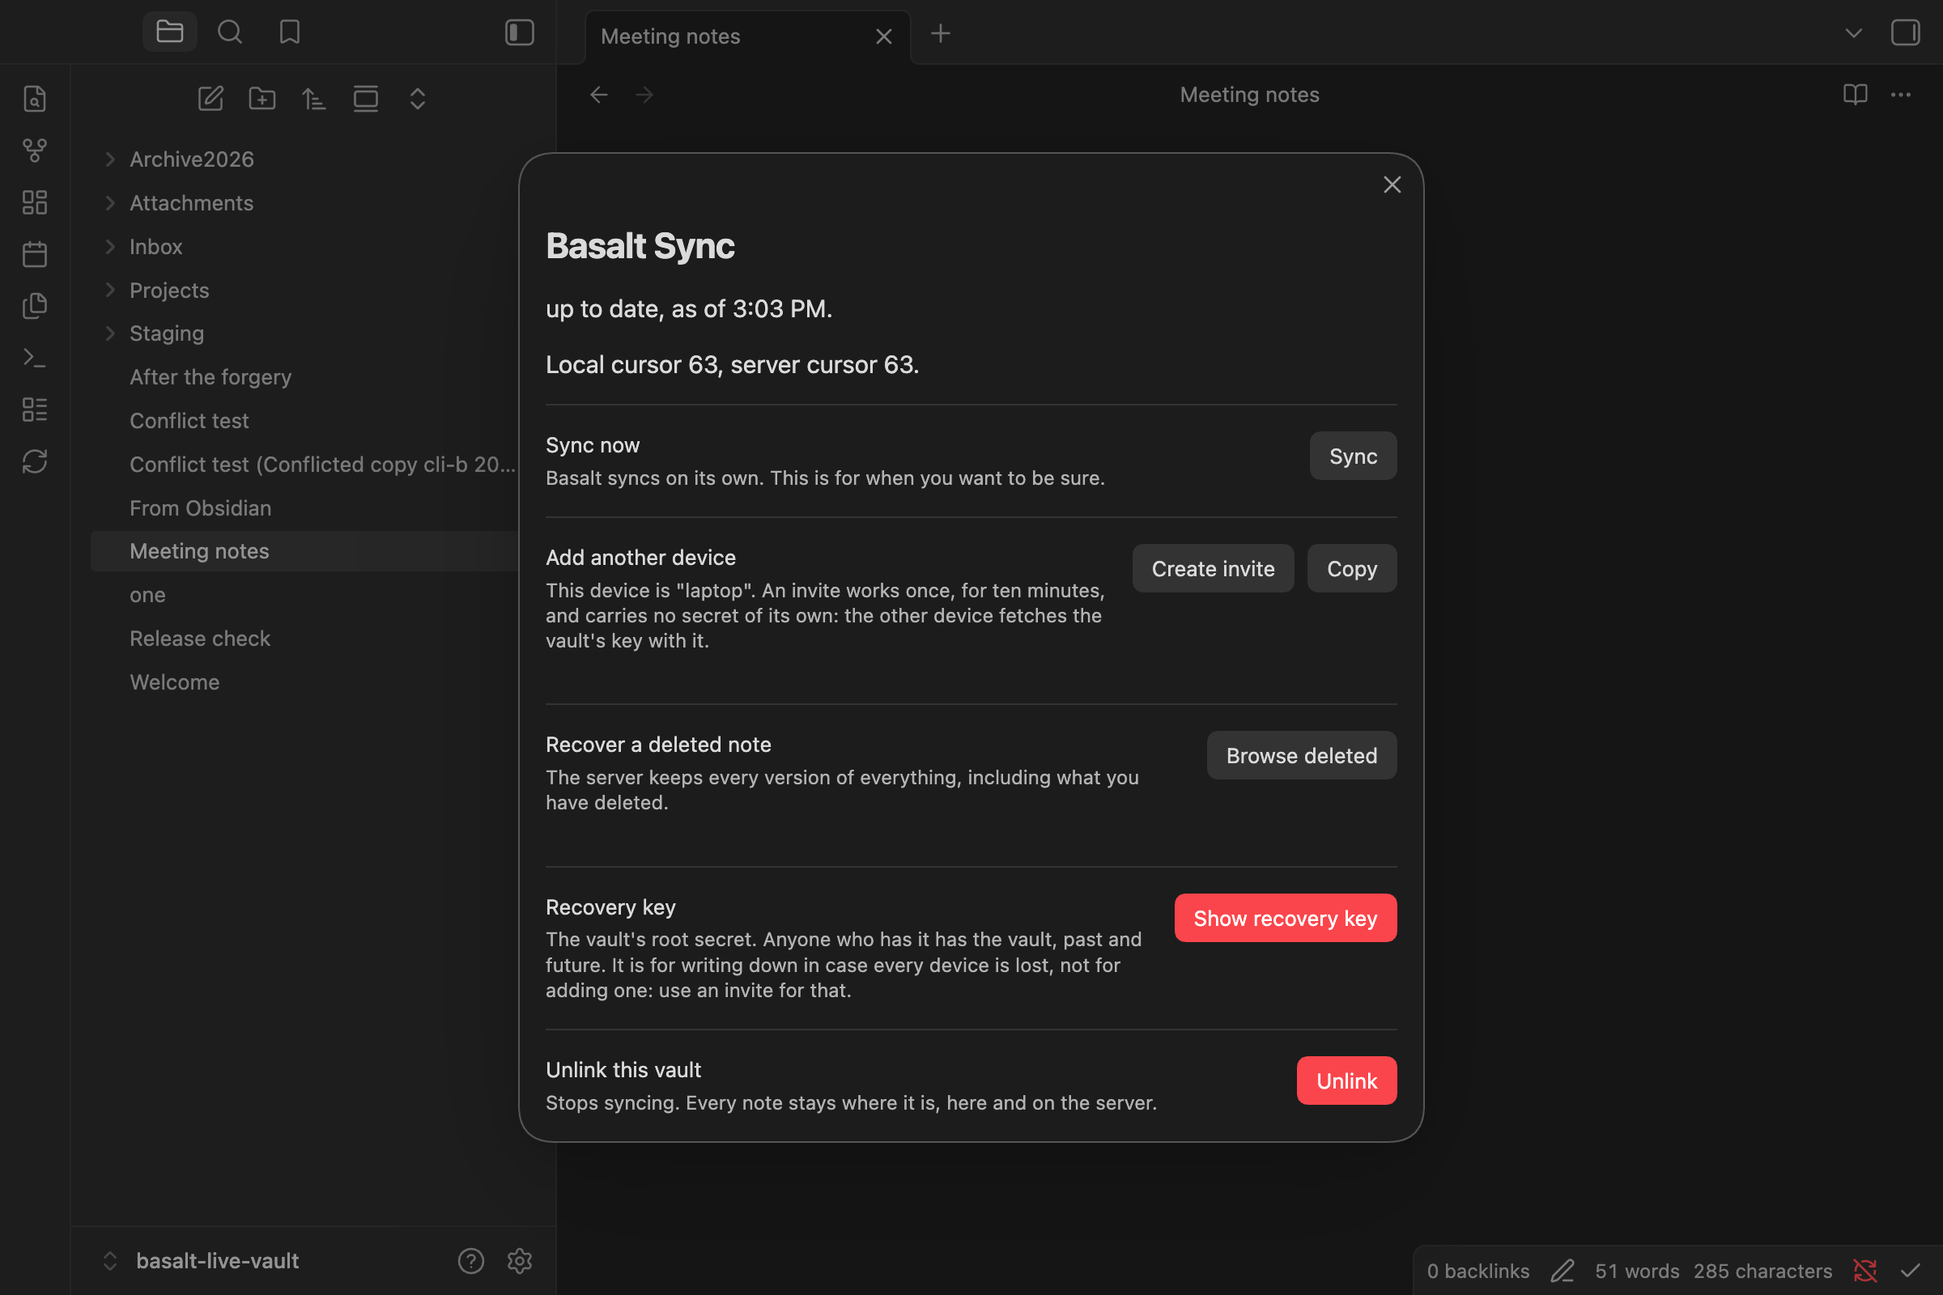
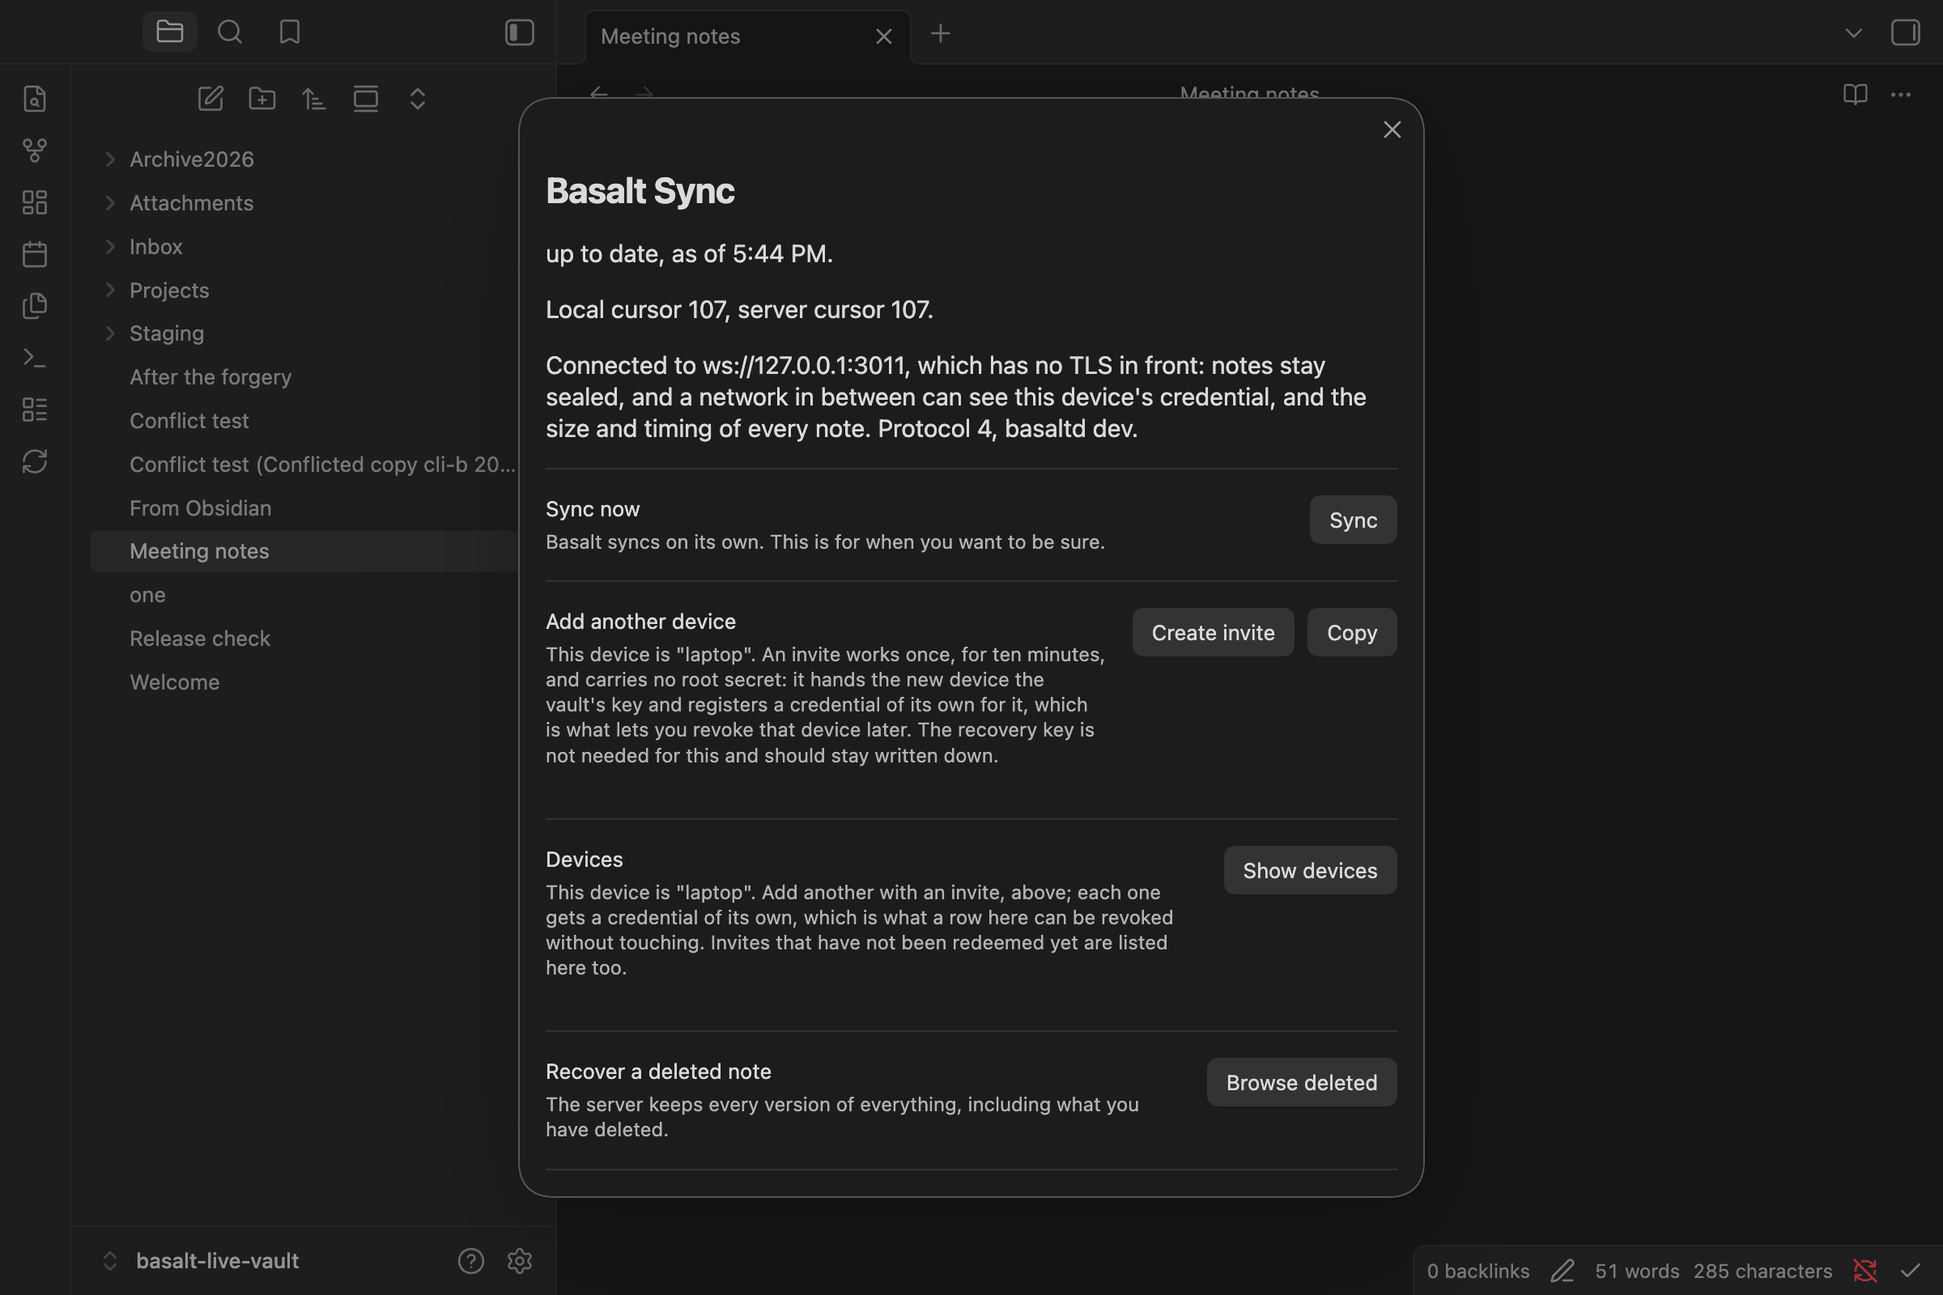
retire the planning files, now that what was in them is in the docs
todo.md, improvements.md and todo-new.md were working files. Everything in
them that outlives the work is now in a document that ships, which is where a
decision belongs if it is to be found by somebody who was not here.

  compared.md, measured and deliberately not done
    a CRDT for the text, and why convergence is not the property this needs
    naming a chunk by its plaintext, and the keyed version that fixes its leak
    a local map from plaintext to the name a chunk was uploaded under
    a SQLite index, answered by measurement
    resolving renames at scan time, and why a guess is worse than the state
    a server-side streaming import, and the numbers that do not justify it
    merging the four not-acted-on maps, and why only the output was merged

  design.md
    what a loopback bind does not prove, and why the token is the proof
    the settings surface that exists although the screen does not
    a canvas edge whose node the other device deleted
    the whole-file fallback on mobile, unmeasured on a real phone
    rule 11, and the restore that verifies and serves a vault with a hole

  protocol.md
    why busy stays one code

  README
    iOS, and the phone measurements nobody has taken

The prototype from the chunk-naming spike is on spike/hmac-chunk-names, pushed
rather than left on one disk under a session id.

One thing does not survive and is small enough to say here instead: two commits
[…]

diff --git a/todo.md b/todo.md
@@ -14,11 +14,12 @@ The tree moved during this review and is still moving: a pairing-flow
 refactor is in flight in the dirty tree (`convertToDevice` and
 `needsConversion` gone from core, `registerAsDevice` in their place, the
 plugin's runLoop/pair/pairFirst reworked around register-then-save, plus
-the continuing protocol-4 comment/docs pass). It is uncommitted, it is not
-this review's scope, and its suite is red while it moves, a later client
-run failed 190 with edits landing mid-run, and a rerun still fails 5 in
-`main.test.ts` with files changing underneath it. Nothing below judges it;
-re-review it once it commits and its own suite is green.
+the continuing protocol-4 comment/docs pass). That work has since
+committed (`dfa0d2b` and friends) and is reviewed in `todo-new.md`, which
+carries this file's open items forward with the new findings. The
+mid-review red suite was edits landing mid-run, not real breakage: the
+committed tree is green except the `format`/`typecheck` gate (B1 in
+`todo-new.md`).
 
 **Rule 9 applies to every item:** a fix without a test that failed first
 is not finished. Items marked `[needs-repro]` are suspected from reading
@@ -55,7 +56,12 @@ refused-but-confusing > operational footguns > leaks/hardening.
 
 ## In progress, uncommitted
 
-- [ ] **The protocol 4 docs pass.** `README.md`, the security SVGs and
+- [x] **The protocol 4 docs pass.** Done, `bc18bb6`. Found four more claims of
+  the same shape as the two already fixed, including a third instance of "a
+  device cannot add a device of its own", plus nine code comments saying a
+  device holds the root, which is presumably why the docs kept saying it. The
+  security graphic was redrawn: it drew the old derivation as a picture.
+  Original entry: `README.md`, the security SVGs and
   `docs/protocol.md` are dirty in the tree: the README's security copy now
   describes device credentials and revocation, the picture draws the new
   derivation, and the protocol doc states the honest boundary ("it cannot do
@@ -68,8 +74,46 @@ refused-but-confusing > operational footguns > leaks/hardening.
   the Sep-04 devices work. Retake with the capturePage recipe (Electron,
   background throttling off), which does not steal focus.
 
-## Test-coverage debts (not bugs, tracked here so they don't drift)
+## From collie's pairing screen, 2026-09-04
 
+Collie shows "Nothing is paired, so writes are ungated. Pair a device to
+require a credential." That model does not transfer: in Basalt the credential
+is the encryption key, not an access gate, so there is no readable state to
+leave ungated and nothing to retrofit encryption onto later. There should
+never be a Basalt screen that says writes are ungated. Three things next to it
+are worth taking.
+
+- [x] **Claim without a token when the server is bound to loopback.**
+  **Refused, and the reasoning is in `docs/design.md` so it is not proposed
+  again.** Loopback is not a reliable signal of "same machine" here, and this
+  project's own deployment docs are why: `server.md` says to bind 127.0.0.1
+  and put `tailscale serve` or Caddy in front, and the systemd unit does
+  exactly that. Both proxies run on the machine and dial loopback, so in the
+  arrangement where the whole tailnet can reach the port, and the Caddy one
+  where the whole internet can, the bind is loopback and the peer address is
+  127.0.0.1. A rule keyed on either hands an unclaimed vault to whoever asks
+  first. Containers are worse: compose publishes on the host's loopback while
+  the server inside binds a wildcard. The only genuine same-machine proofs are
+  a unix socket with peer credentials, or being able to read a file in the
+  data directory, and the second one is the token. So the token is not
+  ceremony, it is the proof. Shipped instead: a test that a claimed vault
+  refuses the next claim against the running binary, since the existing
+  coverage was at the authenticator, which is a function call and not a door.
+- [x] **Ask for the device's name when pairing, in the panel.** **Done, and
+  this entry was wrong.** The panel has always asked; the field existed from
+  the first commit. The real gap was that it was empty behind a placeholder,
+  and a placeholder is not a value, so blank became `obsidian-3f2a` on every
+  device and a list read from inside Obsidian where every row says Obsidian
+  identifies nothing. The field is prefilled now (`mac-3f2a`, `android-91c7`,
+  `ipad-0b55`), mirroring the CLI's own naming. The platform check asks the
+  mobile flags first, because Obsidian's types document `isMacOS` as true on
+  iPhones and iPads, so the other order calls every iPad a Mac.
+- [x] **A connection block in the panel.** Done, one line under the cursors,
+  built only from what the client already holds: address, whether TLS
+  terminates in front, protocol, server build. A `ws://` connection names what
+  that costs exactly rather than vaguely, and disconnected says so rather than
+  leaving a gap, because a build missing for want of a connection reads like a
+  server that did not say.
 - [ ] iOS: first-sync of the real-vault corpus, memory ceiling on an
   old phone, kill-and-resume: numbers, not "should work."
 

diff --git a/docs/design.md b/docs/design.md
@@ -113,6 +113,21 @@ judgement except where it trades away a note; fail loudly and never report
 success you have not verified; the server is an opaque blob store and stays one;
 verify against the artifact, never infer; everything is reversible.
 
+One honest note against all of that, raised in review and worth keeping. There
+is no settings screen, and there is a settings surface: `-max-file`,
+`-max-batch-bytes`, `-max-fetch-bytes`, `-allow-origin`, `-grace`, `-ttl`,
+`--ignore`, `--timeout`, the device cap, the retry hints, the debounce, the
+full-pass interval. Some are flags, some are options, some are constants
+answered once in the source, and the ones a phone most needs are the ones it
+can least reach. Two of those refusals have already been re-litigated by
+reality: `-allow-origin` exists because phones exist, `--ignore` because vaults
+hold things people do not want synced. The counter is real too, since every
+option multiplies untested combinations and the suite is this project's best
+asset. So the position is not that the surface does not exist, but that it
+stays documented in one place per component rather than gathered into a screen,
+and that a refusal which keeps losing the same argument should be amended
+rather than restated.
+
 ## Refusals
 
 No second backend. No peer-to-peer. No teams or shared vaults. No settings
@@ -259,6 +274,34 @@ the version property above is. The same probe goes to a vault this server
 serves, furnished with devices, entries and an outstanding invite, and to a
 vault it has never heard of, and the two frames must match byte for byte,
 whatever code either of them chooses.
+
+### Why a loopback bind is not the token
+
+The first-run token is the one step of setup that is pure ceremony: start the
+server, find the line, copy it, paste it. The obvious way to remove it is to let
+a server bound to `127.0.0.1` accept an unauthenticated claim, on the grounds
+that anything reaching loopback is already on the machine. That was considered
+and refused, because here loopback is where the proxy lives.
+[server.md](server.md#tls) says to bind to `127.0.0.1:3003` and put `tailscale
+serve` or Caddy in front, and the systemd unit does exactly that. Both proxies
+run on the machine and dial loopback, so the bind address is loopback and the
+peer address is 127.0.0.1 in the arrangement where the tailnet can reach the
+port, and in the Caddy one, where the whole internet can. A rule keyed on
+either would read both as "same machine" and hand an unclaimed vault to whoever
+asked first. A container only muddies it further: `compose.yaml` publishes the
+port on the host's loopback while the server inside binds a wildcard, so the
+same words mean different things depending on which namespace is asked. The
+condition is not too broad and in need of narrowing: it is measuring the wrong
+thing.
+
+What the token is, then, is evidence that whoever is claiming can read a file in
+the data directory, which is the only same-machine proof a plain TCP listener
+has. It is required on every bind, `-localhost` included. What makes it safe to
+print in a log is that spending it is final: the claim binds the vault to that
+device's key, and the next claim is refused with `auth` and changes nothing.
+That is checked against the running binary and not only against the
+authenticator, because the property is about the door and not about the
+function behind it.
 
 ## The keys
 
@@ -421,3 +464,14 @@ published from CI over OIDC with no stored token.
   `basaltd backup`.
 - TLS. The server speaks plain HTTP and expects `tailscale serve` or a proxy in
   front. No key material lives in this repository.
+- A canvas edge whose node the other device deleted. The merge keeps the edge,
+  the file is valid JSON, and Obsidian drops the edge silently on the next
+  save. There is no third answer when one person removes the node another drew
+  an arrow to, and telling that edge from one the ancestor already had needs
+  the validity check to see the ancestor and both sides rather than just the
+  result. Pinned as a test so it is met as a decision.
+- The whole-file fallback on mobile. The 64 MiB default was sized from a
+  desktop memory curve, and the fallback reads a whole file. An older phone
+  syncing a large attachment may be killed mid-pass. Staging means no note is
+  lost, but the file never syncs and the symptom is a dead app rather than an
+  error. It wants measuring on a real device, and has not been.

diff --git a/docs/compared.md b/docs/compared.md
@@ -210,6 +210,45 @@ does to concurrent writers, not for its arithmetic.
   second code path through the most durability-critical part of the client.
 - **node-diff3** for the merge. It conflicted on five of eight cases that merge
   cleanly here, including two devices appending to a daily note.
+- **A CRDT for the text**, Automerge or Yjs, to replace the three-way merge
+  outright. Considered seriously after fuzzing found four ways the merge could
+  produce text neither device wrote, and declined, because it solves a problem
+  this product does not have and does not solve the one it does. A CRDT
+  guarantees that every device converges on the same text. It says nothing
+  about that text being what either person meant: two devices editing one line
+  apart still interleave, deterministically, and the result is the same
+  garbled sentence with nothing to flag it. What Basalt does instead is detect
+  that the two edits cannot be reconciled and keep both versions, which is the
+  safety net the first rule rests on, and a CRDT has no conflict to fall back
+  to. It would also cost per-document operation history the server must hold
+  and compact, do nothing for attachments or canvases, and require a protocol
+  change plus a migration of every existing vault. The defects fuzzing found
+  were merges that merged where they should have conflicted, so the fix was to
+  conflict more accurately, at a measured 0.18% of clean merges.
+- **Resolving renames at scan time**, by matching a disappeared path to an
+  appeared one with the same content hash, instead of the stateful `prev`
+  chain. The chain has produced several real bugs, which is what prompted it,
+  but the replacement is a guess with worse ambiguity: identical files are
+  ordinary in a vault (empty notes, templates), a rename plus an edit changes
+  the hash and stops looking like a rename, and a delete then create of the
+  same content becomes a false one. The current code also deliberately matches
+  Obsidian's own `previouspath` behaviour. Its bugs were found, fixed and
+  pinned; trading tested state for an untested heuristic in the path that
+  produced them is the wrong direction. Revisit if renames start producing new
+  bugs.
+- **A server-side streaming import for a first sync**, one long-lived upload
+  instead of many capped batches. The numbers do not justify it: 54 seconds up
+  and 22 down for the real 3,751 file vault, and a first sync happens once per
+  device. A second path through the most durability-critical code is a poor
+  trade for that. Worth re-measuring over real tailscale latency before
+  reopening, not before building.
+- **Merging the four "not acted on" maps** (`blocked`, `skipped`, `ignored`,
+  `refusedInbound`) into one. Rule 7 is right that four categories is three
+  distinctions a person must learn, and wrong about where to fix it: each map
+  came from its own incident and they carry different exit-code semantics.
+  The output was merged into one "needs attention" list with reasons; the
+  model was left alone. Merging the maps would trade four incidents' worth of
+  learning for one fewer noun.
 - **Naming a chunk by its plaintext rather than its ciphertext**, so that the
   chunk size, the deflate level and the sealing construction stop being baked
   into the name. Spiked in September 2026 against the real corpus, and not
@@ -245,7 +284,7 @@ does to concurrent writers, not for its arithmetic.
   stays on file for one case: a construction change that is forced rather than
   chosen, where re-sealing under today's naming would rename every chunk,
   rewrite every entry and re-MAC the whole of history. The prototype and its
-  benchmark are on the branch `worktree-agent-afcd112f19a23495e`, unmerged
+  benchmark are on the branch `spike/hmac-chunk-names`, pushed and unmerged
   because nothing imports them, so the numbers above can be re-run rather than
   re-derived.
 - **A local map from plaintext to the name a chunk was uploaded under**, which

diff --git a/docs/plugin.md b/docs/plugin.md
@@ -69,9 +69,14 @@ and there is nothing the plugin can do about it that a person cannot see: the
 panel shows the vault's recovery key, which may be the only copy of it, and
 says to write it down, unlink and pair again with it.
 
-The device name is optional. Left blank it becomes `obsidian-` and four random
-characters, so two devices left at the default do not share a name. It appears
-in version history and in conflict copy filenames.
+The device name comes filled in, with what kind of machine this is and four
+random characters: `mac-3f2a`, `android-91c7`, `ipad-0b55`. Type over it with
+whatever you call this device: that replaces the whole suggestion, tail and
+all, the way `--device` does on the command line. The tail is why two Macs left
+at the suggestion do not share a name, and a name is worth having because it is
+what a row in *Devices* says, what version history shows against a version, and
+what a conflict copy is named after. `basalt` does the same thing with the
+machine's hostname.
 
 The pairing is stored in the plugin's own `data.json`: this device's id, the
 secret it connects with, and the vault's data key, all in the clear. The root
@@ -94,6 +99,13 @@ the server suggested. Only a refusal that would repeat word for word stops it.
 The panel shows the local cursor and the server cursor. A device that is behind
 and stays behind while nothing arrives is the one thing the protocol cannot
 detect on its own, and these two numbers are how you see it.
+
+Under them is what this device is talking to: the address it holds, whether
+something in front of the server terminated TLS, and the protocol and server
+build from `ready`. That is the first thing wanted when sync is not working,
+and none of it costs a request. A device that is not connected shows the
+address and says the protocol and the build are not known yet, because a build
+missing for want of a connection looks exactly like a server that did not say.
 
 The status bar icon shows the state. Obsidian mobile has no status bar, so the
 same sentence is the ribbon icon's tooltip.

diff --git a/README.md b/README.md
@@ -37,20 +37,17 @@ Basalt is the narrow version. One backend, one transport, one person's devices. 
     </td>
   </tr>
   <tr>
+    <th align="center">Every device, and revoking one</th>
     <th align="center">Deleted notes, kept until you purge</th>
-    <th align="center">Adding a device</th>
   </tr>
   <tr>
+    <td align="center">
+      <img src="docs/assets/screenshots/devices.png" alt="The device list: each device with its name, when it was added and when it was last seen, a button to revoke one, and a note saying revoking stops a device connecting but does not un-read what it already read.">
+    </td>
     <td align="center">
       <picture>
         <source media="(prefers-color-scheme: dark)" srcset="docs/assets/screenshots/recover-dark.png">
         <img src="docs/assets/screenshots/recover.png" alt="The deleted notes list, with a restore button.">
-      </picture>
-    </td>
-    <td align="center">
-      <picture>
-        <source media="(prefers-color-scheme: dark)" srcset="docs/assets/screenshots/pairing-dark.png">
-        <img src="docs/assets/screenshots/pairing.png" alt="The pairing panel, taking an invite or a recovery key.">
       </picture>
     </td>
   </tr>
@@ -136,6 +133,7 @@ Notes are cut into content-defined chunks, so an edit sends the chunk that moved
 - [x] Headless client for a machine with no Obsidian
 - [x] One static binary, verified atomic backups, and a restore runbook
 - [ ] Tested on iOS, which should work and has never been run
+- [ ] Measured on an older phone: the memory ceiling for a large attachment, and a first sync of a real vault over real latency
 - [ ] Listed in the Obsidian community directory
 - [ ] Syncing themes and snippets, the one open question in [the design](docs/design.md)
 
